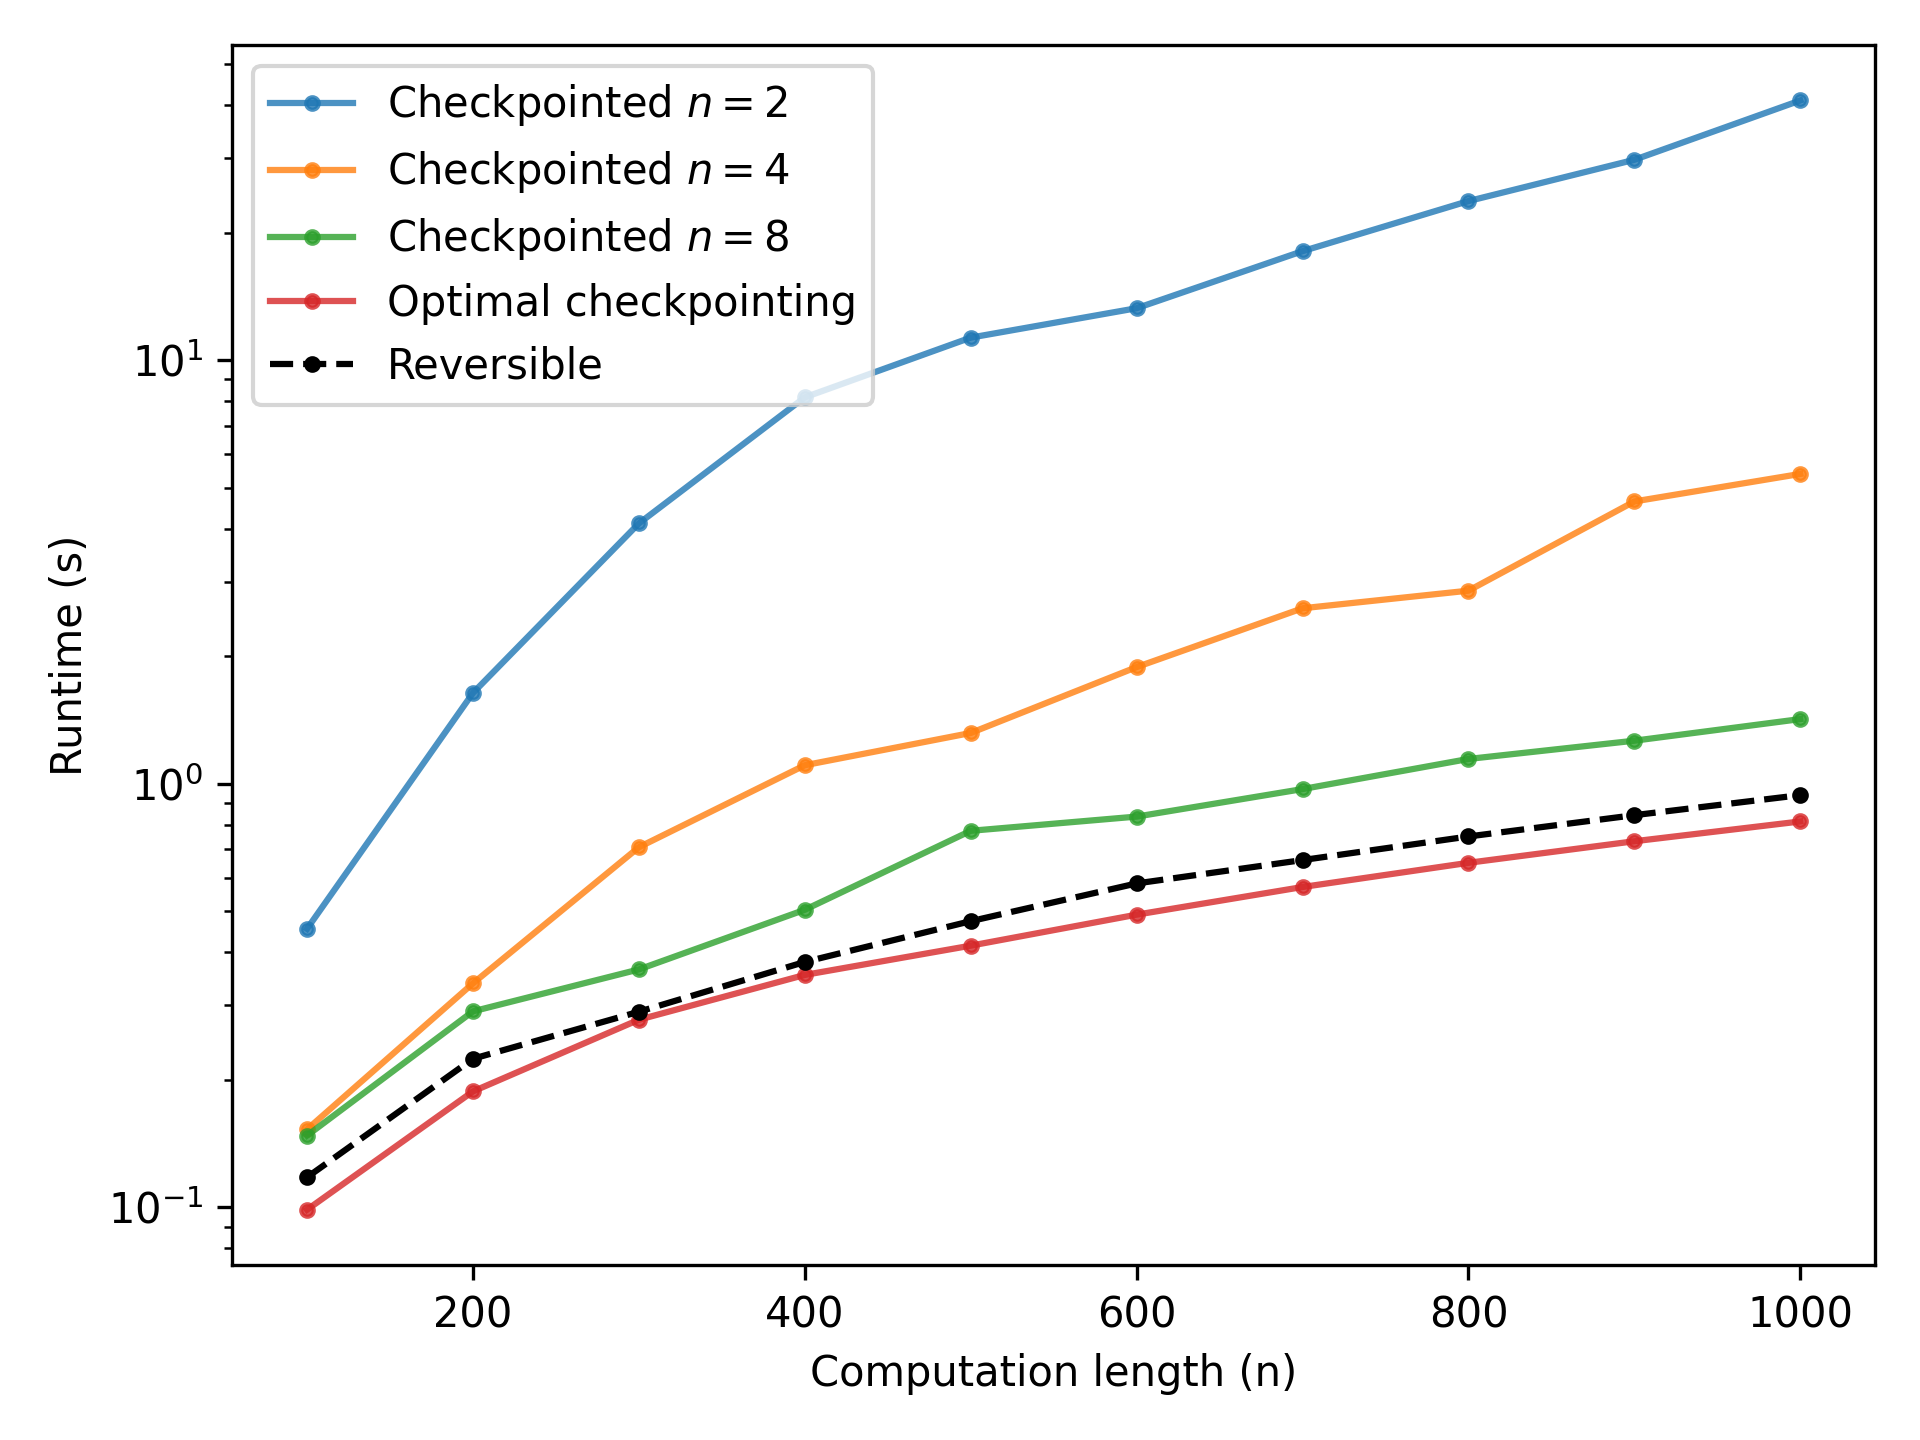
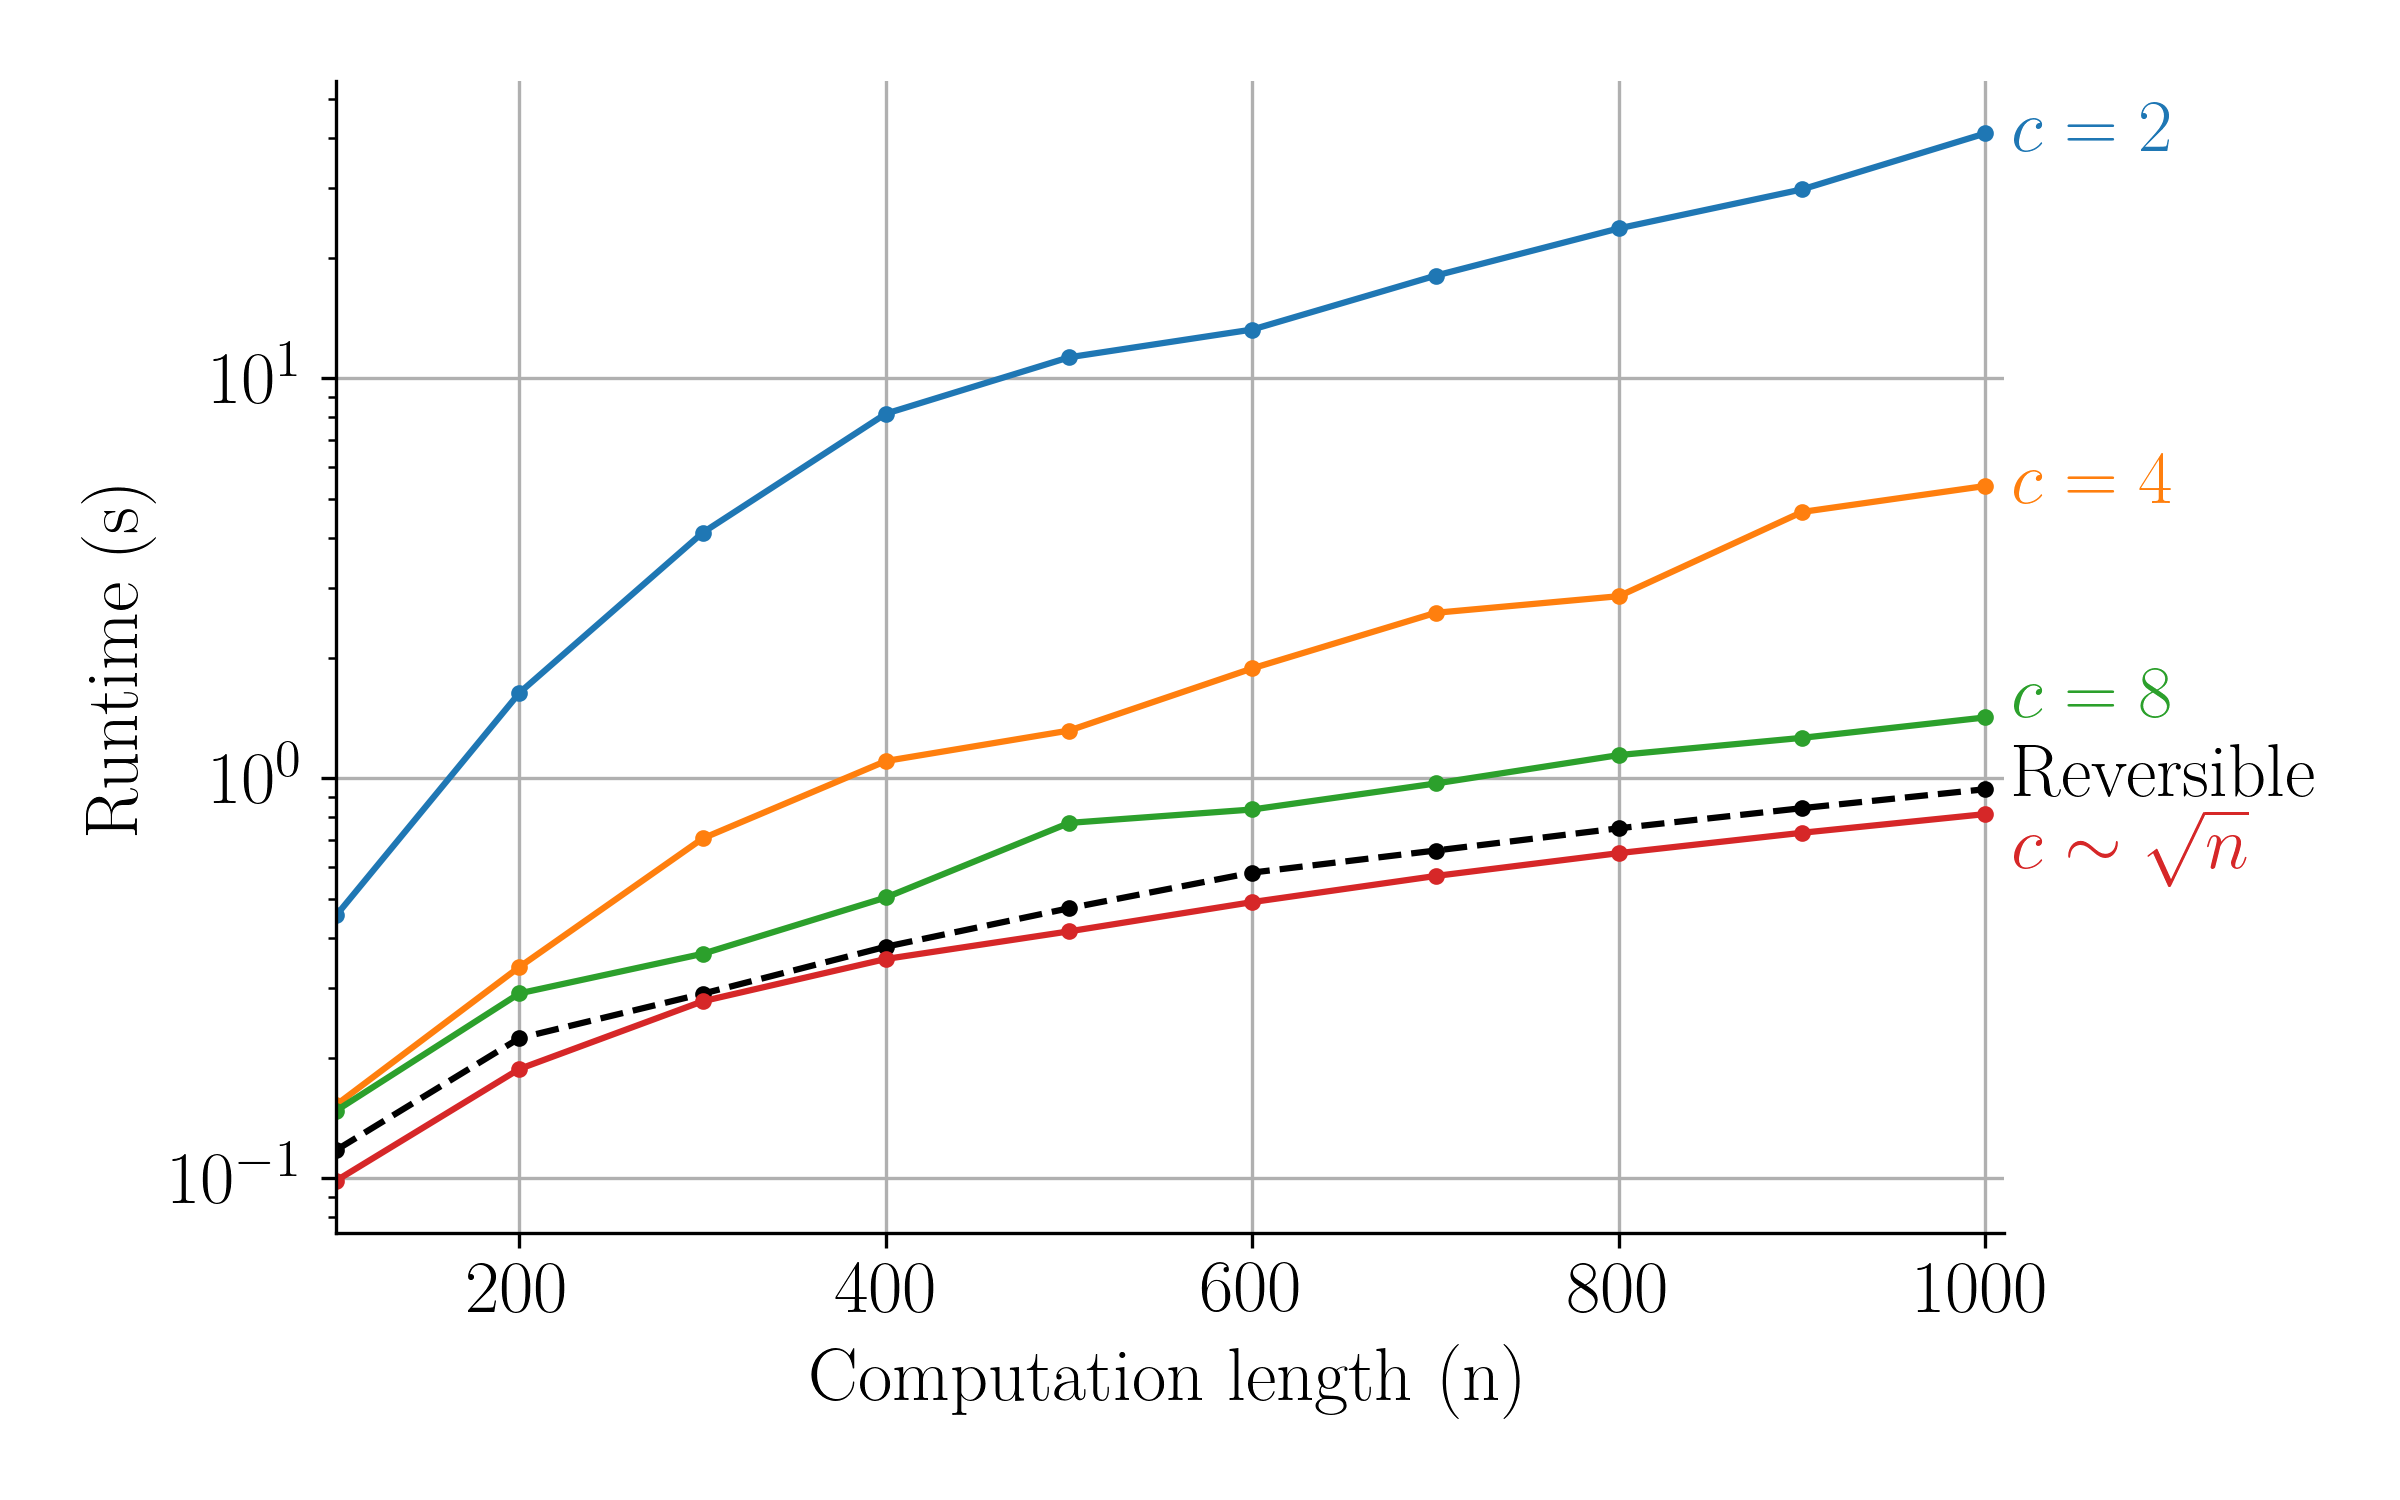
complexity plot

diff --git a/experiments/complexity/plotting/plot_complexity.py b/experiments/complexity/plotting/plot_complexity.py
@@ -1,7 +1,17 @@
 import matplotlib.pyplot as plt
 import numpy as np
 
-plt.rcParams["axes.prop_cycle"] = plt.cycler(color=plt.cm.tab10.colors)
+plt.rcParams.update(
+    {
+        "text.usetex": True,
+        "font.family": "Computer Modern Roman",
+        "font.size": 18,
+        "text.latex.preamble": r"\usepackage{lmodern, amsmath, amssymb, amsfonts}",
+        "legend.fontsize": 16,
+        "svg.fonttype": "none",
+        "axes.prop_cycle": plt.cycler(color=plt.cm.tab10.colors),
+    }
+)
 
 
 def get_checkpoints_and_runtimes(data):
@@ -69,21 +79,56 @@ if __name__ == "__main__":
         runtimes_rec[idx] = mean_rec
         runtimes_rev[idx] = mean_rev
 
-    plt.plot(steps, runtimes_rec, marker=".", alpha=0.8)
-    plt.plot(steps, runtimes_rev, color="black", marker=".", linestyle="--")
+    fig, ax = plt.subplots(1, 1, figsize=(8, 5))
+    ax.plot(steps, runtimes_rev, color="black", marker=".", linestyle="--")
+    ax.plot(steps, runtimes_rec, marker=".")
 
-    plt.ylabel("Runtime (s)")
-    plt.xlabel("Computation length (n)")
-    plt.yscale("log")
-    plt.legend(
-        labels=[
-            r"Checkpointed $n=2$",
-            r"Checkpointed $n=4$",
-            r"Checkpointed $n=8$",
-            r"Optimal checkpointing",
-            "Reversible",
-        ],
-        loc="upper left",
+    ax.text(
+        steps[-1] + 15,
+        runtimes_rev[-1] + 0.05,
+        r"Reversible",
+        color="black",
+        va="center",
     )
+    ax.text(
+        steps[-1] + 15, runtimes_rec[-1, 0], r"$c=2$", color="tab:blue", va="center"
+    )
+    ax.text(
+        steps[-1] + 15, runtimes_rec[-1, 1], r"$c=4$", color="tab:orange", va="center"
+    )
+    ax.text(
+        steps[-1] + 15,
+        runtimes_rec[-1, 2] + 0.15,
+        r"$c=8$",
+        color="tab:green",
+        va="center",
+    )
+    ax.text(
+        steps[-1] + 15,
+        runtimes_rec[-1, 3] - 0.15,
+        r"$c\sim \sqrt{n}$",
+        color="tab:red",
+        va="center",
+    )
+
+    ax.set_ylabel("Runtime (s)")
+    ax.set_xlabel("Computation length (n)")
+    plt.yscale("log")
+    # ax.legend(
+    #     labels=[
+    #         "Reversible",
+    #         r"Recursive $n=2$",
+    #         r"Recursive $n=4$",
+    #         r"Recursive $n=8$",
+    #         r"Recursive Optimal",
+    #     ],
+    #     bbox_to_anchor=(1, 1),
+    #     loc="upper left",
+    # )
+    ax.set_xlim(steps[0], steps[-1] + 10)
+    # ax.set_xticks(steps)
+    ax.spines["top"].set_visible(False)  # Hide top spine
+    ax.spines["right"].set_visible(False)
     plt.tight_layout()
+    plt.grid(True)
     plt.savefig("plot.png", dpi=300)

diff --git a/experiments/odes/seirs.py b/experiments/odes/seirs.py
@@ -4,9 +4,8 @@ import diffrax as dfx
 import jax
 import jax.numpy as jnp
 import jax.random as jr
-import matplotlib.pyplot as plt
 
-from reversible import VectorField, lorenz, solve, train
+from reversible import SEIRS, VectorField, plot_SEIRS, solve, train
 
 jax.config.update("jax_enable_x64", True)
 
@@ -26,18 +25,19 @@ if __name__ == "__main__":
     elif adjoint_name == "recursive":
         adjoint = dfx.RecursiveCheckpointAdjoint(checkpoints)
 
-    args = (10.0, 28.0, 8 / 3)
-    vf = VectorField(y_dim=3, hidden_size=10, key=jr.PRNGKey(0))
-    # adjoint = dfx.RecursiveCheckpointAdjoint(checkpoints)
-    adjoint = dfx.ReversibleAdjoint()
-    y0 = jnp.array([1.0, 1.0, 1.0])
-    t1 = 1
-    dt0 = 0.001
-    ts, data = solve(lorenz, y0, t1, dt0, adjoint, args)
-    # plt.plot(ts, data[:, 0], ".-", color="tab:red")
-    # plt.plot(ts, data[:, 1], ".-", color="tab:blue")
-    # plt.plot(ts, data[:, 2], ".-", color="tab:blue")
-    # plt.savefig("lorenz.png", dpi=300)
+    scale_factor = 1 / 25
+    args = [1 / 76, 0.15 * 365.25, 1.0, 365.25 / 7, 365.25 / 14, 0.0]
+    scaled_args = []
+    for arg in args:
+        scaled_arg = scale_factor * arg
+        scaled_args.append(scaled_arg)
+
+    vf = VectorField(y_dim=4, hidden_size=10, key=jr.PRNGKey(0))
+    y0 = jnp.array([0.99, 0.01, 0.0, 0.0])
+    t1 = 10.0
+    dt0 = 0.01
+    ts, data = solve(SEIRS, y0, t1, dt0, adjoint, scaled_args)
+    # plot_SEIRS(ts, data)
     train(
         vf,
         y0,
@@ -45,7 +45,8 @@ if __name__ == "__main__":
         dt0,
         data,
         adjoint,
-        args=args,
-        ode_model_name="lorenz",
+        args=scaled_args,
+        ode_model_name="seirs",
         steps=1000,
     )
+    # source: https://www.nature.com/articles/s41592-020-0856-2

diff --git a/reversible/_plotting.py b/reversible/_plotting.py
@@ -27,9 +27,19 @@ def plot_pendulum(ts, ys):
 
 
 def plot_lorenz(ts, ys):
-    plt.plot(ts, ys[:, 0], ".-", color="tab:blue", label="S")
-    plt.plot(ts, ys[:, 1], ".-", color="tab:red", label="I")
-    plt.plot(ts, ys[:, 2], ".-", color="tab:green", label="R")
+    plt.plot(ts, ys[:, 0], ".-", color="tab:blue", label="x")
+    plt.plot(ts, ys[:, 1], ".-", color="tab:red", label="y")
+    plt.plot(ts, ys[:, 2], ".-", color="tab:green", label="z")
 
     plt.legend()
     plt.savefig("lorenz_pred.png", dpi=300)
+
+
+def plot_SEIRS(ts, ys):
+    plt.plot(ts, ys[:, 0], ".-", color="tab:blue", label="S")
+    plt.plot(ts, ys[:, 1], ".-", color="tab:red", label="E")
+    plt.plot(ts, ys[:, 2], ".-", color="tab:green", label="I")
+    plt.plot(ts, ys[:, 4], ".-", color="tab:orange", label="R")
+
+    plt.legend()
+    plt.savefig("SEIRS.png", dpi=300)

diff --git a/reversible/_training.py b/reversible/_training.py
@@ -5,11 +5,11 @@ import equinox as eqx
 import jax.numpy as jnp
 import optax
 
-from reversible import plot_lorenz
+from reversible import plot_SEIRS
 
 
 def solve(vf, y0, t1, dt0, adjoint, args):
-    solver = dfx.Tsit5()
+    solver = dfx.Dopri8()
     saveat = dfx.SaveAt(steps=True)
     term = dfx.ODETerm(vf)
     t0 = 0
@@ -77,4 +77,4 @@ def train(
         print(f"{adjoint}, runtime: {toc - tic}, loss: {loss:.8f}", file=file)
 
     ts, ys_pred = solve(vf, y0, t1, dt0, adjoint, args)
-    plot_lorenz(ts, ys_pred)
+    plot_SEIRS(ts, ys_pred)

diff --git a/reversible/_odes.py b/reversible/_odes.py
@@ -12,6 +12,19 @@ def SIR(t, y, args):
     return jnp.array([dyS, dyI, dyR])
 
 
+def SEIRS(t, y, args):
+    mu, beta, omega, sigma, gamma, alpha = args
+    S = y[0]
+    E = y[1]
+    I = y[2]
+    R = y[3]
+    dyS = mu - beta * I * S + omega * R - mu * S
+    dyE = beta * I * S - sigma * E - mu * E
+    dyI = sigma * E - gamma * I - (mu + alpha) * I
+    dyR = gamma * I - omega * R - mu * R
+    return jnp.array([dyS, dyE, dyI, dyR])
+
+
 def lotka_volterra(t, y, args):
     alpha, beta, gamma, delta = args
     y1 = y[0]

diff --git a/reversible/__init__.py b/reversible/__init__.py
@@ -4,6 +4,7 @@ from ._models import (
     VectorField as VectorField,
 )
 from ._odes import (
+    SEIRS as SEIRS,
     SIR as SIR,
     fitzhugh_nagumo as fitzhugh_nagumo,
     lorenz as lorenz,
@@ -15,6 +16,7 @@ from ._plotting import (
     plot_lorenz as plot_lorenz,
     plot_lotka_volterra as plot_lotka_volterra,
     plot_pendulum as plot_pendulum,
+    plot_SEIRS as plot_SEIRS,
     plot_SIR as plot_SIR,
 )
 from ._training import solve as solve, train as train

diff --git a/experiments/complexity/complexity.py b/experiments/complexity/complexity.py
@@ -81,7 +81,7 @@ if __name__ == "__main__":
     elif adjoint_name == "recursive":
         adjoint = dfx.RecursiveCheckpointAdjoint(checkpoints)
 
-    ts = [1, 2, 3, 4, 5, 6, 7, 8, 9, 10]
+    ts = [11, 12, 13, 14, 15, 16, 17, 18, 19, 20]
     for t1 in ts:
         steps = int(t1 / 0.01)
         filename = f"data/{adjoint_name}_{steps}.csv"
